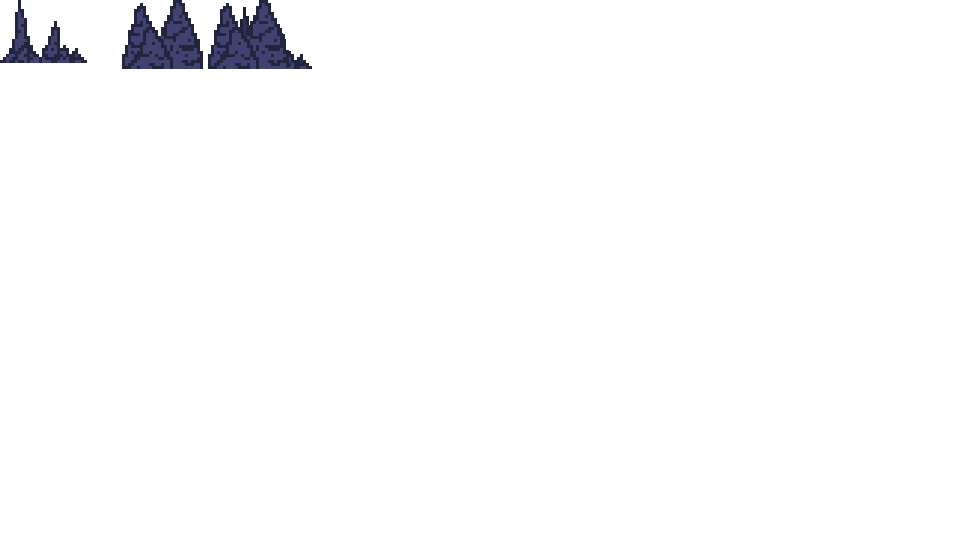
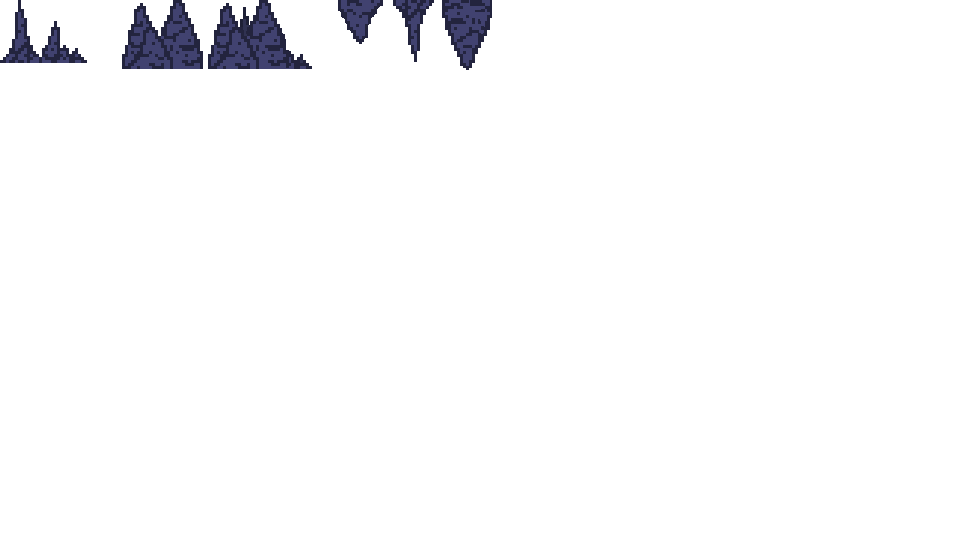
Added falling spikes

Changed region(s): [[0.3438, 0.0, 0.5312, 0.1185]]

diff --git a/Wheats and Wands/Levels/CaveToCastle.cs b/Wheats and Wands/Levels/CaveToCastle.cs
@@ -16,14 +16,23 @@ namespace Wheats_and_Wands.Levels
         private GameState _gameState;
         private Farmer _farmer;
 
+        FallingKillObject _wideStalactite;
+        FallingKillObject _skinnyStalactite;
+        FallingKillObject _bigStalactite;
+
+
         private List<ScrollBackground> _scrollBackgrounds;
 
         public CaveToCastle(Farmer farmer, GameState gameState, Texture2D front, Texture2D back, Texture2D secondLayer, Texture2D thirdLayer,
-            Texture2D fourthLayer, Texture2D fifthLayer, Texture2D sixthLayer)
+            Texture2D fourthLayer, Texture2D fifthLayer, Texture2D sixthLayer, Texture2D spikes)
         {
             _farmer = farmer;
             _gameState = gameState;
             _farmerStartPos = new Vector2(50, 325);
+
+            _wideStalactite = new FallingKillObject(new Sprite(spikes, 338, 0, 45, 44, new Vector2(290, 0)), _farmer, new TimeSpan(0,0,3));
+            _skinnyStalactite = new FallingKillObject(new Sprite(spikes, 393, 0, 41, 62, new Vector2(404, 0)), _farmer, new TimeSpan(0, 0, 2));
+            _bigStalactite = new FallingKillObject(new Sprite(spikes, 442, 0, 50, 70, new Vector2(640, 0)), _farmer, new TimeSpan(0, 0, 4));
 
             _scrollBackgrounds = new List<ScrollBackground>()
             {
@@ -61,15 +70,22 @@ namespace Wheats_and_Wands.Levels
         {
             _farmer.Draw(spriteBatch, gameTime);
 
+            _wideStalactite.Draw(spriteBatch, gameTime);
+            _skinnyStalactite.Draw(spriteBatch, gameTime);
+            _bigStalactite.Draw(spriteBatch, gameTime);
+
             foreach (var scrollBackground in _scrollBackgrounds)
                 scrollBackground.Draw(gameTime, spriteBatch);
         }
         public override void Update(GameTime gameTime)
         {
             _farmer.Update(gameTime);
+
+            _wideStalactite.Update(gameTime);
+            _skinnyStalactite.Update(gameTime);
+            _bigStalactite.Update(gameTime);
+
             _farmer._groundY = _farmerStartPos.Y;
-
-
             if (_farmer.Position.X + _farmer._sprite.Width > WheatandWandsGame.WINDOW_WIDTH - 10)
             {
                 _gameState.state = States.Castle;

diff --git a/Wheats and Wands/Entities/FallingKillObject.cs b/Wheats and Wands/Entities/FallingKillObject.cs
@@ -1,0 +1,62 @@
+using Microsoft.Xna.Framework;
+using System;
+using System.Collections.Generic;
+using System.Text;
+using Wheats_and_Wands.Graphics;
+
+namespace Wheats_and_Wands.Entities
+{
+    class FallingKillObject : CollisionEntity
+    {
+        TimeSpan _hangTime;
+        TimeSpan _lastFallTime;
+        float _verticalVelocity;
+        bool falling;
+        Vector2 startPos;
+        int groundY;
+        public FallingKillObject(Sprite sprite, Farmer farmer, TimeSpan hangTime) : base(sprite, farmer)
+        {
+            _sprite = sprite;
+            _farmer = farmer;
+            _hangTime = hangTime;
+            falling = false;
+            startPos = sprite.position;
+            groundY = 400;
+            _lastFallTime = new TimeSpan(0,0,0);
+        }
+
+        public void Update(GameTime gameTime)
+        {
+            if(_lastFallTime + _hangTime < gameTime.TotalGameTime)
+            {
+                falling = true;
+                _lastFallTime = gameTime.TotalGameTime;
+            }
+            Fall(gameTime);
+            Kill(_farmer);
+            Reset();
+        }
+
+        private void Fall(GameTime gameTime)
+        {
+            if (falling)
+            {
+            _verticalVelocity += 1000f * (float)gameTime.ElapsedGameTime.TotalSeconds;
+            _sprite.position = new Vector2(_sprite.position.X, _sprite.position.Y + _verticalVelocity * (float)gameTime.ElapsedGameTime.TotalSeconds);
+            }
+
+        }
+
+        private void Reset()
+        {
+            if (_sprite.position.Y -_sprite.Height > groundY)
+            {
+                
+                _sprite.position = startPos;
+                falling = false;
+                _verticalVelocity = 0;
+            }
+            
+        }
+    }
+}

diff --git a/Wheats and Wands/WheatandWandsGame.cs b/Wheats and Wands/WheatandWandsGame.cs
@@ -205,7 +205,7 @@ namespace Wheats_and_Wands
             _farmToCave = new FarmToCave(_farmer, _gameState, _ftc, _tutorialSecondLayer, _tutorialThirdLayer, _farClouds, 
                 _fastClouds, _tutorialLastLayer);
             _caveToCastle = new CaveToCastle(_farmer, _gameState, _ctcFront, _ctcBack, _caveSecondLayer, _caveThirdLayer, _caveFourthLayer,
-                _caveFifthLayer, _caveSixthLayer);
+                _caveFifthLayer, _caveSixthLayer, _spikes);
 
         }
 
